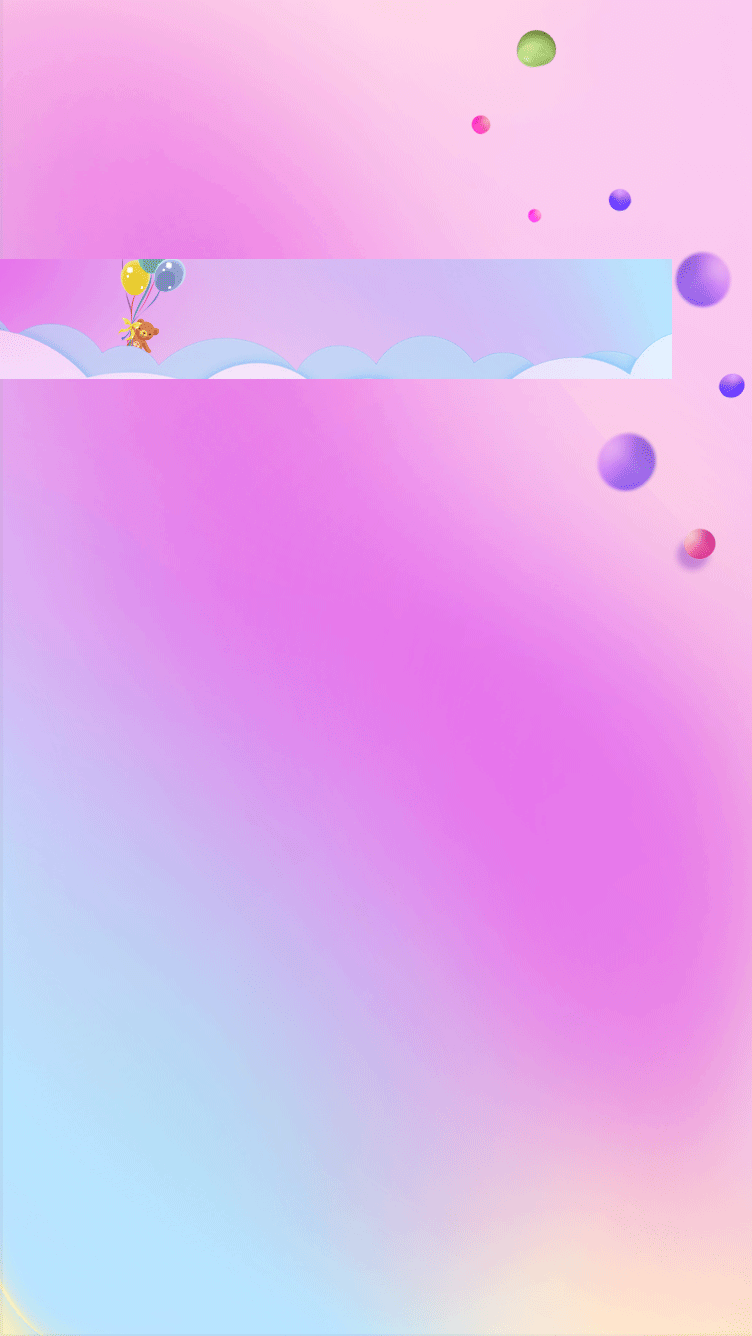
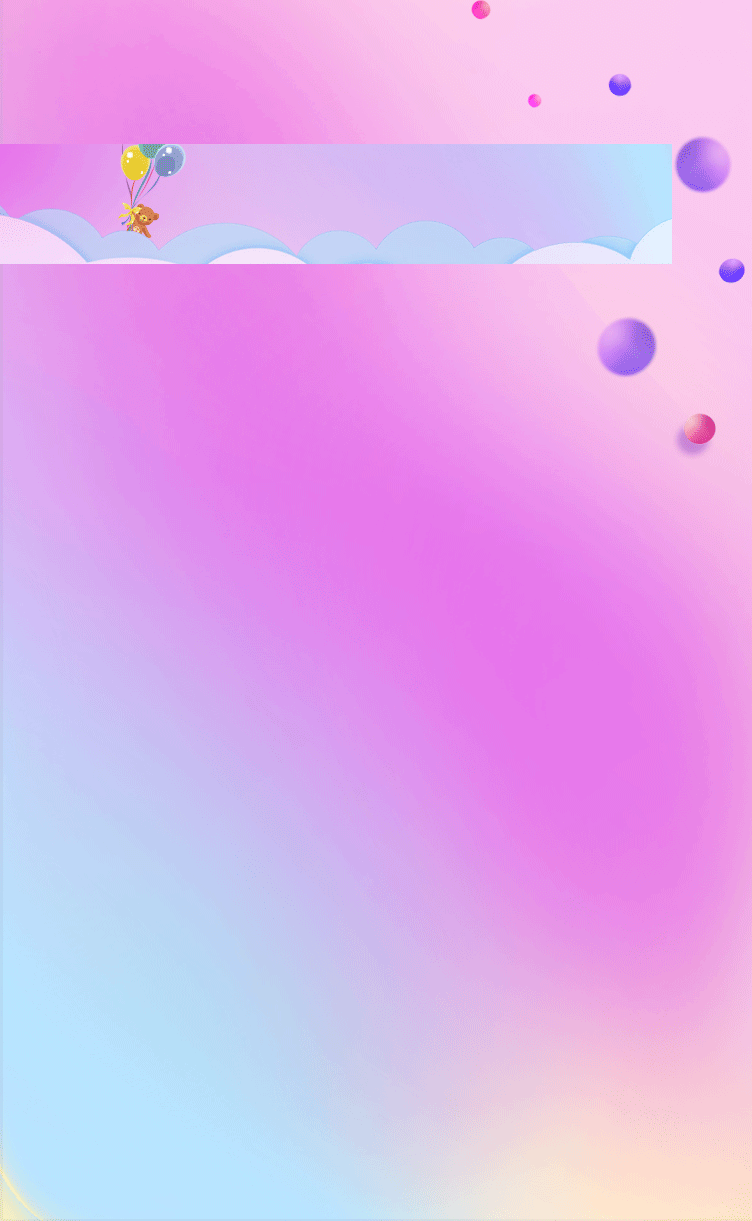
更新position.js，精灵图

diff --git a/src/css/home/index.css b/src/css/home/index.css
@@ -1,6 +1,6 @@
 
 .wrap{
-	padding: 45px 8px 0;
+	padding: 50px 8px 0;
 	font-size: 14px;
 	min-height: 100%;
 	background-image: url(../../img/hi_bg.png);
@@ -8,19 +8,23 @@
 }
 
 .sp_bg{
-	background-image: url(../../img/sp6.png);
+	background-image: url(../../img/sp9.png);
 	background-repeat: no-repeat;
 }
 
 .header{
 	position: fixed;
 	top: 0;
-	left: 8px;
-	right: 8px;
+	left: 0;
+	right: 0;
+	padding: 0 8px;
 	display: flex;
-	height: 45px;
+	height: 50px;
 	justify-content: space-between;
 	align-items: center;
+	z-index: 9;
+	background-image: url(../../img/hi_bg.png);
+	background-size: 100%;
 }
 .header1{
 	display: flex;
@@ -58,7 +62,7 @@
 }
 .btn_addMoney{
 	background-position: -1px -1px;
-	width: 32px;
+	width: 31px;
 	height: 30px;
 	position: absolute;
 	left: 100%;
@@ -68,18 +72,18 @@
 	-webkit-transform: translateY(-50%);
 }
 .header3{
-	width: 32px;
-	height: 30px;
-	line-height: 30px;
+	width: 34px;
+	height: 34px;
+	line-height: 34px;
 	text-align: center;
 	font-family: STHupo;
 	color: #FFFFFF;
-	font-size: 12px
-	background-position: -65px -3px;
+	font-size: 12px;
+	background-position: -59px -1px;
 }
 
 .p1{
-	margin: 5px 0 8px;
+	margin: 0px 0 8px;
 }
 .hi_banner{
 	height: 120px;
@@ -134,14 +138,15 @@
 	margin-left: 8px;
 }
 .item_desc2{
-	width: 39px;
-	height: 39px;
-	background-position: -124px -2px;
-	margin-right: 6px;
+	width: 16px;
+	height: 18px;
+	background-position: -19px -54px;
+	margin-right: 3px;
 }
 .item_desc3{
 	color: #F2A83C;
 	margin-right: 5px;
+	font-size: 12px;
 }
 .item_desc_box{
 	display: flex;

diff --git a/src/js/position.js b/src/js/position.js
@@ -1,13 +1,16 @@
 var positionArr = [
-	'充值': [1, 1, 32, 30],
-	'规则': [65, 3, 32, 30],
+	'充值': [1, 1, 31, 30],
+	'规则': [59, 1, 34, 34],
 	'1金': [124, 2, 39, 39],
 	'2金': [208, 2, 48, 41],
-	'3金': [303, 7, 56, 41],
-	'4金': [410, 1, 123, 80],
-	'5金': [536, 2, 72, 41],
+	'3金': [303, 7, 55, 40],
+	'4金': [410, 2, 64, 41],
+	'5金': [536, 2, 72, 40],
 	
-	'首页': [1, 95, 46, 48],
+	'左箭头':[0, 57, 8, 12],
+	'小1金':[19, 54, 16, 18],
+	
+	'首页': [0, 94, 45, 47],
 	'签到': [102, 94, 46, 49],
 	'仓库': [206, 95, 46, 48],
 	'我的': [311, 97, 46, 48],
@@ -16,11 +19,11 @@ var positionArr = [
 	
 	'签到多金':[0, 203, 37, 36],
 	'稀有碎片':[71, 203, 38, 37],
-	'普通碎片':[145, 200, 39, 37],
+	'普通碎片':[144, 200, 40, 39],
 	'无奖励':[202, 202, 90, 70],
 	
-	'小龙卷风':[0, 277, 27, 26],
-	'转发':[56, 279, 26, 25],
+	'小龙卷风':[1, 278, 27, 26],
+	'转发':[56, 279, 32, 32],
 	'返回':[111, 277, 32, 32],
 	'加按钮':[175, 280, 29, 30],
 	'减按钮':[221, 280, 29, 30],
